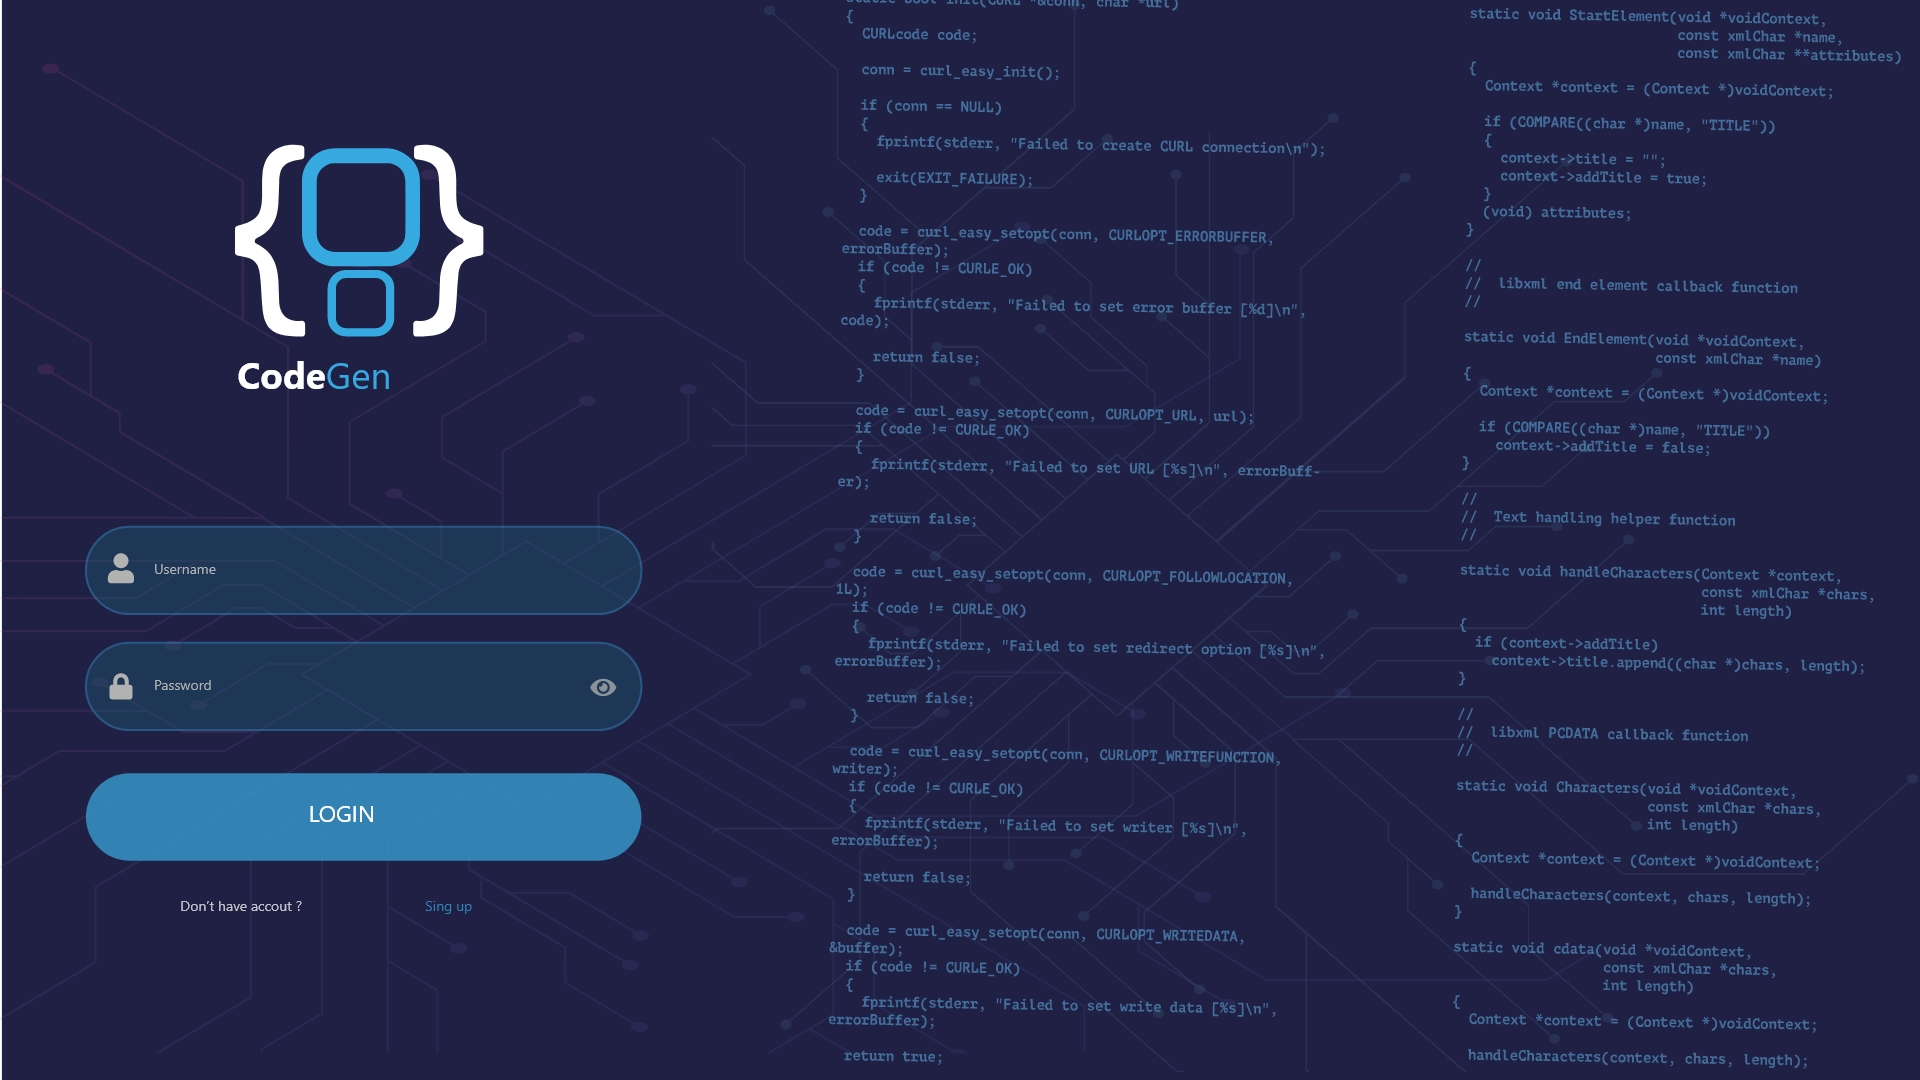
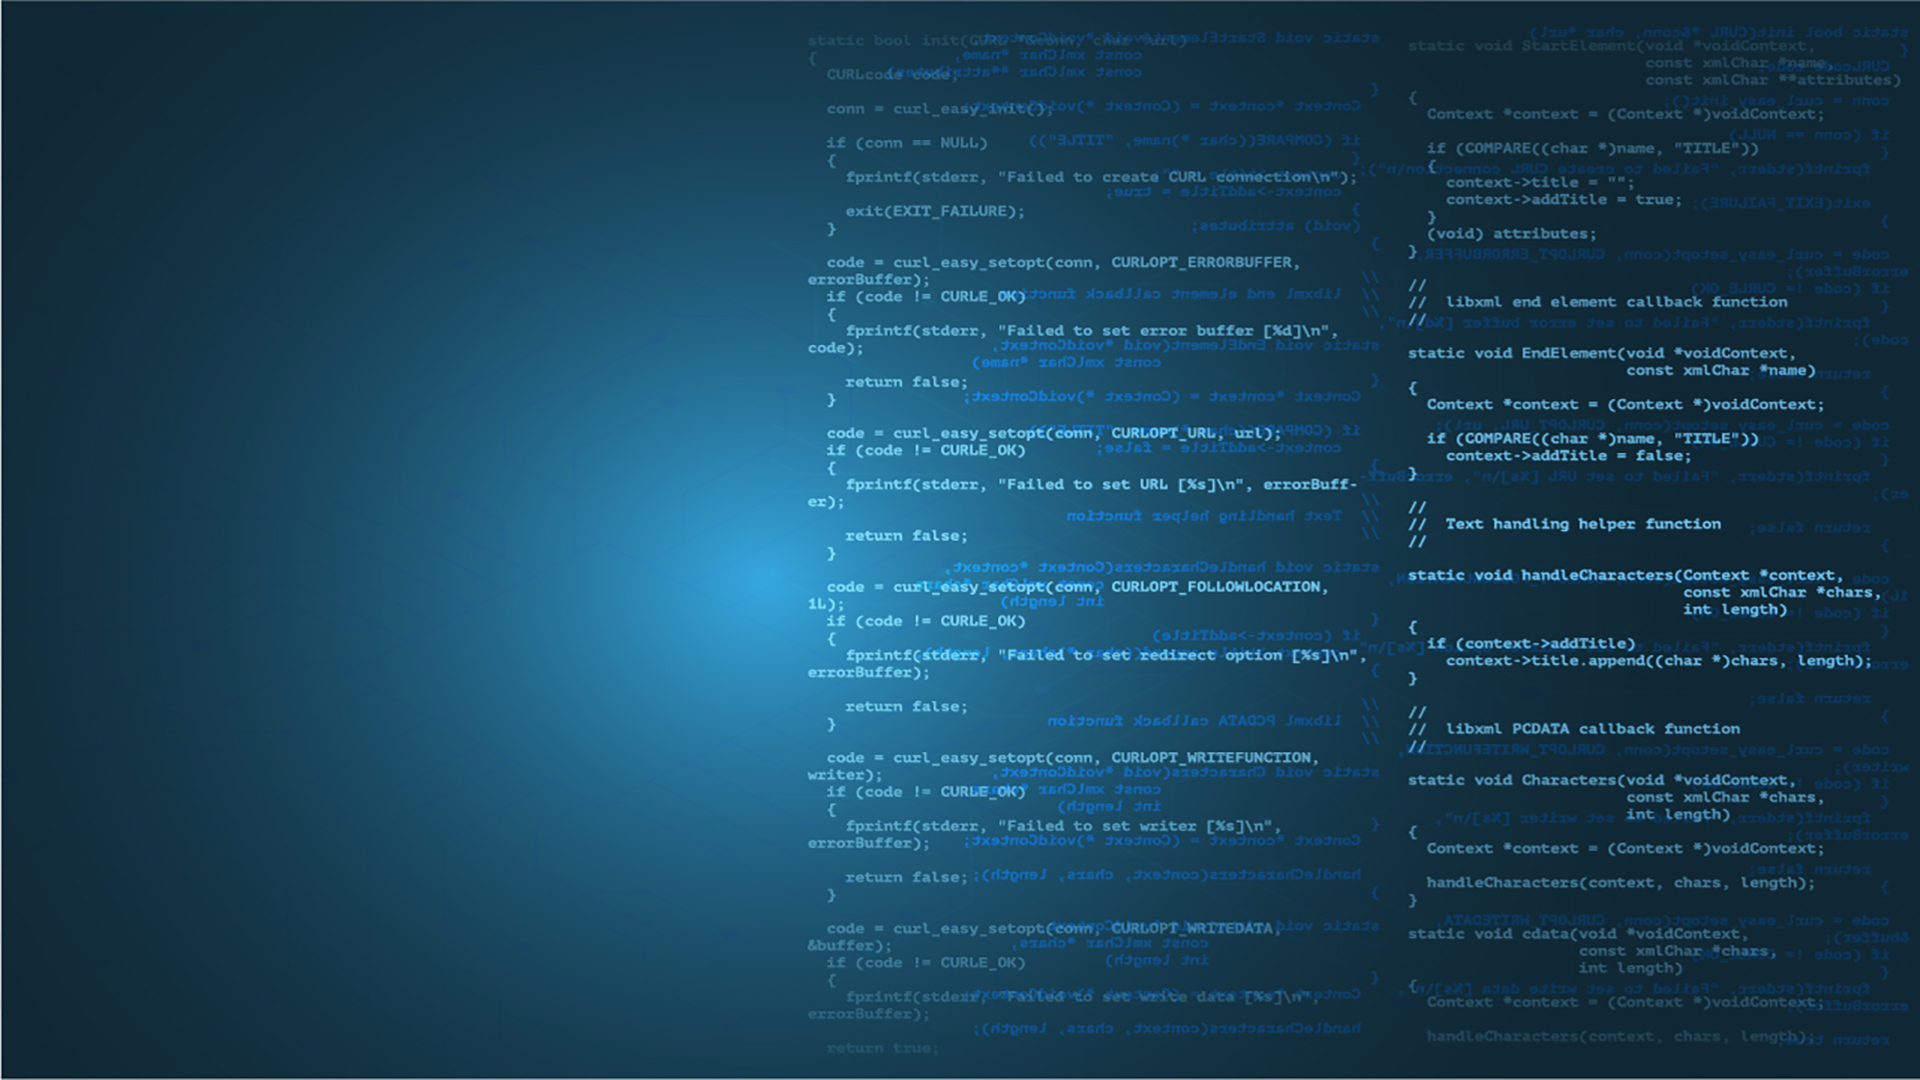
update file login component

diff --git a/src/app/login/login.component.html b/src/app/login/login.component.html
@@ -1,4 +1,4 @@
-
+<div style="background-image: url('../../assets/login.jpg');  background-repeat: no-repeat;">
 <div class="container-fluid"  >
   <div class="row">
     <div class="col-md-5">
@@ -15,10 +15,5 @@
       </form>
     </div>
   </div>
-  <style>
-      
-  </style>
 </div>
-<script>
-    document.getElementById("body").setAttribute("style","background-image: url('../../assets/login.jpg');  background-repeat: no-repeat; height: 100%; width: auto;");
-</script>
+</div>

diff --git a/src/app/login/login.component.css b/src/app/login/login.component.css
@@ -1,0 +1,5 @@
+.container-fluid{
+  
+  height: 100vh;
+  width: 100vh;
+}
